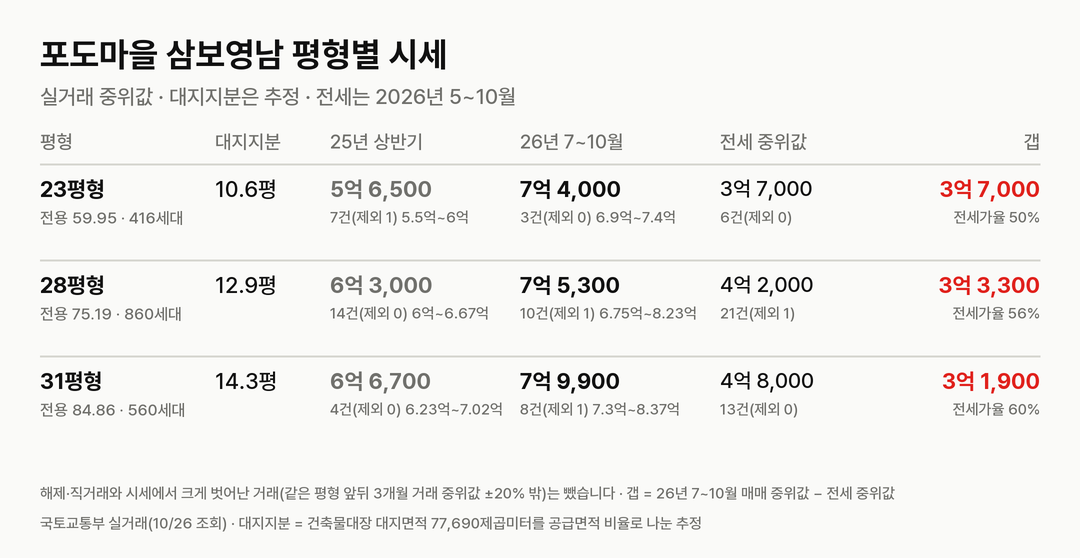
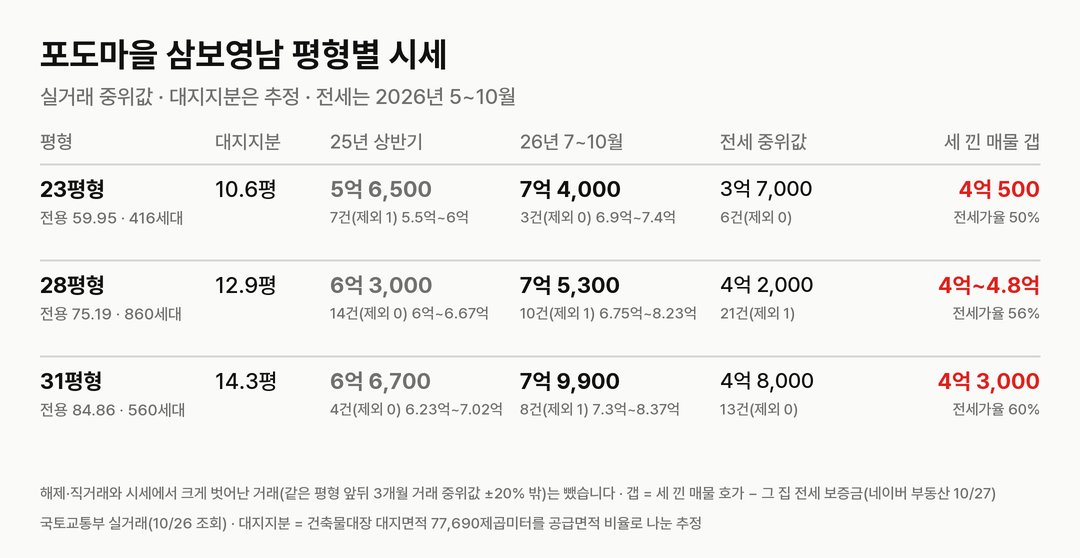
content: 포도마을 호가를 네이버 부동산 기준 세 낀 매물·실거주 매물로 나누고 갭을 그 집 보증금 기준으로 (10-27 대표 지시)

diff --git a/content/danji/podo-sambo-yeongnam.md b/content/danji/podo-sambo-yeongnam.md
@@ -8,7 +8,7 @@ region: 경기
 sources:
   - 국토교통부 아파트 매매·전월세 실거래가(2025년 1월~2026년 10월, 2026-10-26 조회)
   - 국토교통부 건축물대장(총괄표제부 대지면적·용적률)
-  - 네이버 부동산 매물 호가(2026-10-26 조회)
+  - 네이버 부동산 매물 호가(2026-10-27 조회, 세 낀 매물·실거주 매물 구분)
   - 부천시 중동 1기 신도시 특별정비계획(안) 주민공람(2026-10, 위클리한국주택경제신문·머니투데이 보도)
   - 한국부동산원 입주예정물량, 청약홈 분양 공고
   - 한국부동산원 주간 아파트가격동향
@@ -85,13 +85,13 @@ faq:
 
 ![시세 추이](img/podo-sambo-yeongnam-price.png)
 
-| 평형 | 매매 호가(2026-10-26) | 전세 실거래 건수(제외)·중위값(2026년 5~10월) | 갭 | 전세가율 |
-|---|---|---|---|---|
-| 23평형 | 2건, 7억 4,000만~7억 5,500만 | 6건(0), 3억 7,000만 | 3억 7,000만 | 50% |
-| 28평형 | 3건, 8억 3,000만~8억 5,000만 | 21건(1), 4억 2,000만 | 3억 3,300만 | 56% |
-| 국평 | 4건, 8억 1,000만~8억 7,500만 | 13건(0), 4억 8,000만 | 3억 1,900만 | 60% |
+| 평형 | 세 낀 매물 호가 | 세 낀 매물 갭(그 집 보증금 기준) | 실거주 매물 호가 | 전세 실거래 건수(제외)·중위값(2026년 5~10월) | 전세가율 |
+|---|---|---|---|---|---|
+| 23평형 | 1건, 7억 4,000만 | 4억 500만 | 1건, 7억 7,000만 | 6건(0), 3억 7,000만 | 50% |
+| 28평형 | 3건, 8억 3,000만~8억 5,000만 | 4억~4억 8,000만 | 없음 | 21건(1), 4억 2,000만 | 56% |
+| 국평 | 2건, 8억 1,000만~9억 2,000만 | 4억 3,000만(보증금이 적힌 1건) | 2건, 8억 3,000만~9억 5,000만 | 13건(0), 4억 8,000만 | 60% |
 
-갭은 2026년 7~10월 매매 중위값에서 전세 중위값을 뺀 값이다. 부천은 토지거래허가구역이 아니다. 매매 매물은 세 평형을 합쳐 9건이다.
+호가는 네이버 부동산 매매 매물(2026-10-27 조회, 중복 등록 3건은 하나로 셈)이고, 세 낀 매물(전세를 안고 사는 매물)과 실거주 매물(즉시·협의 입주)로 나눴다. 갭은 세 낀 매물 호가에서 그 집 전세 보증금을 뺀 값이다. 세 낀 매물의 보증금(3억 3,500만~4억 9,000만)이 지금 나온 전세 매물(4억 1,000만~5억)보다 대체로 낮아 갭이 4억 원대다. 전세가율은 2026년 7~10월 매매 중위값 대비 전세 중위값이다. 부천은 토지거래허가구역이 아니다.
 
 ## 학군과 생활 인프라
 
